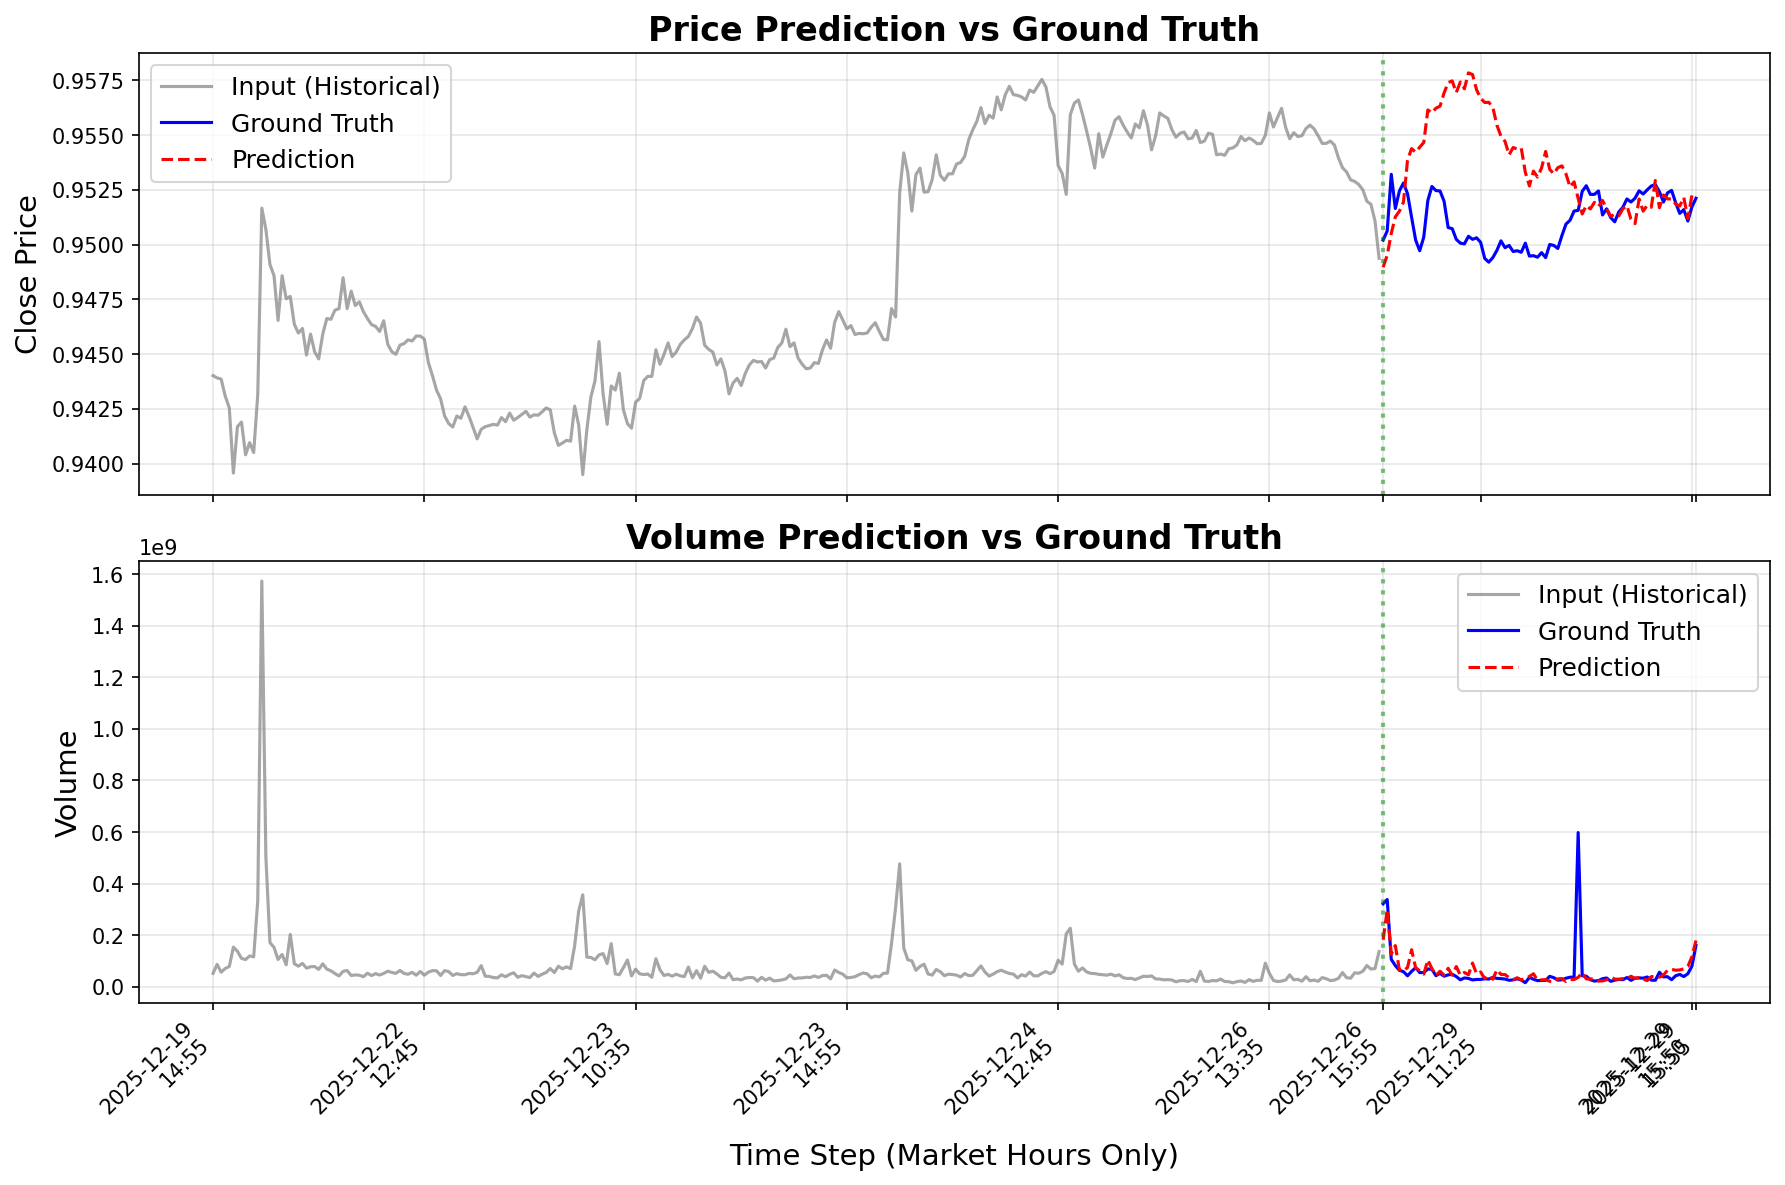
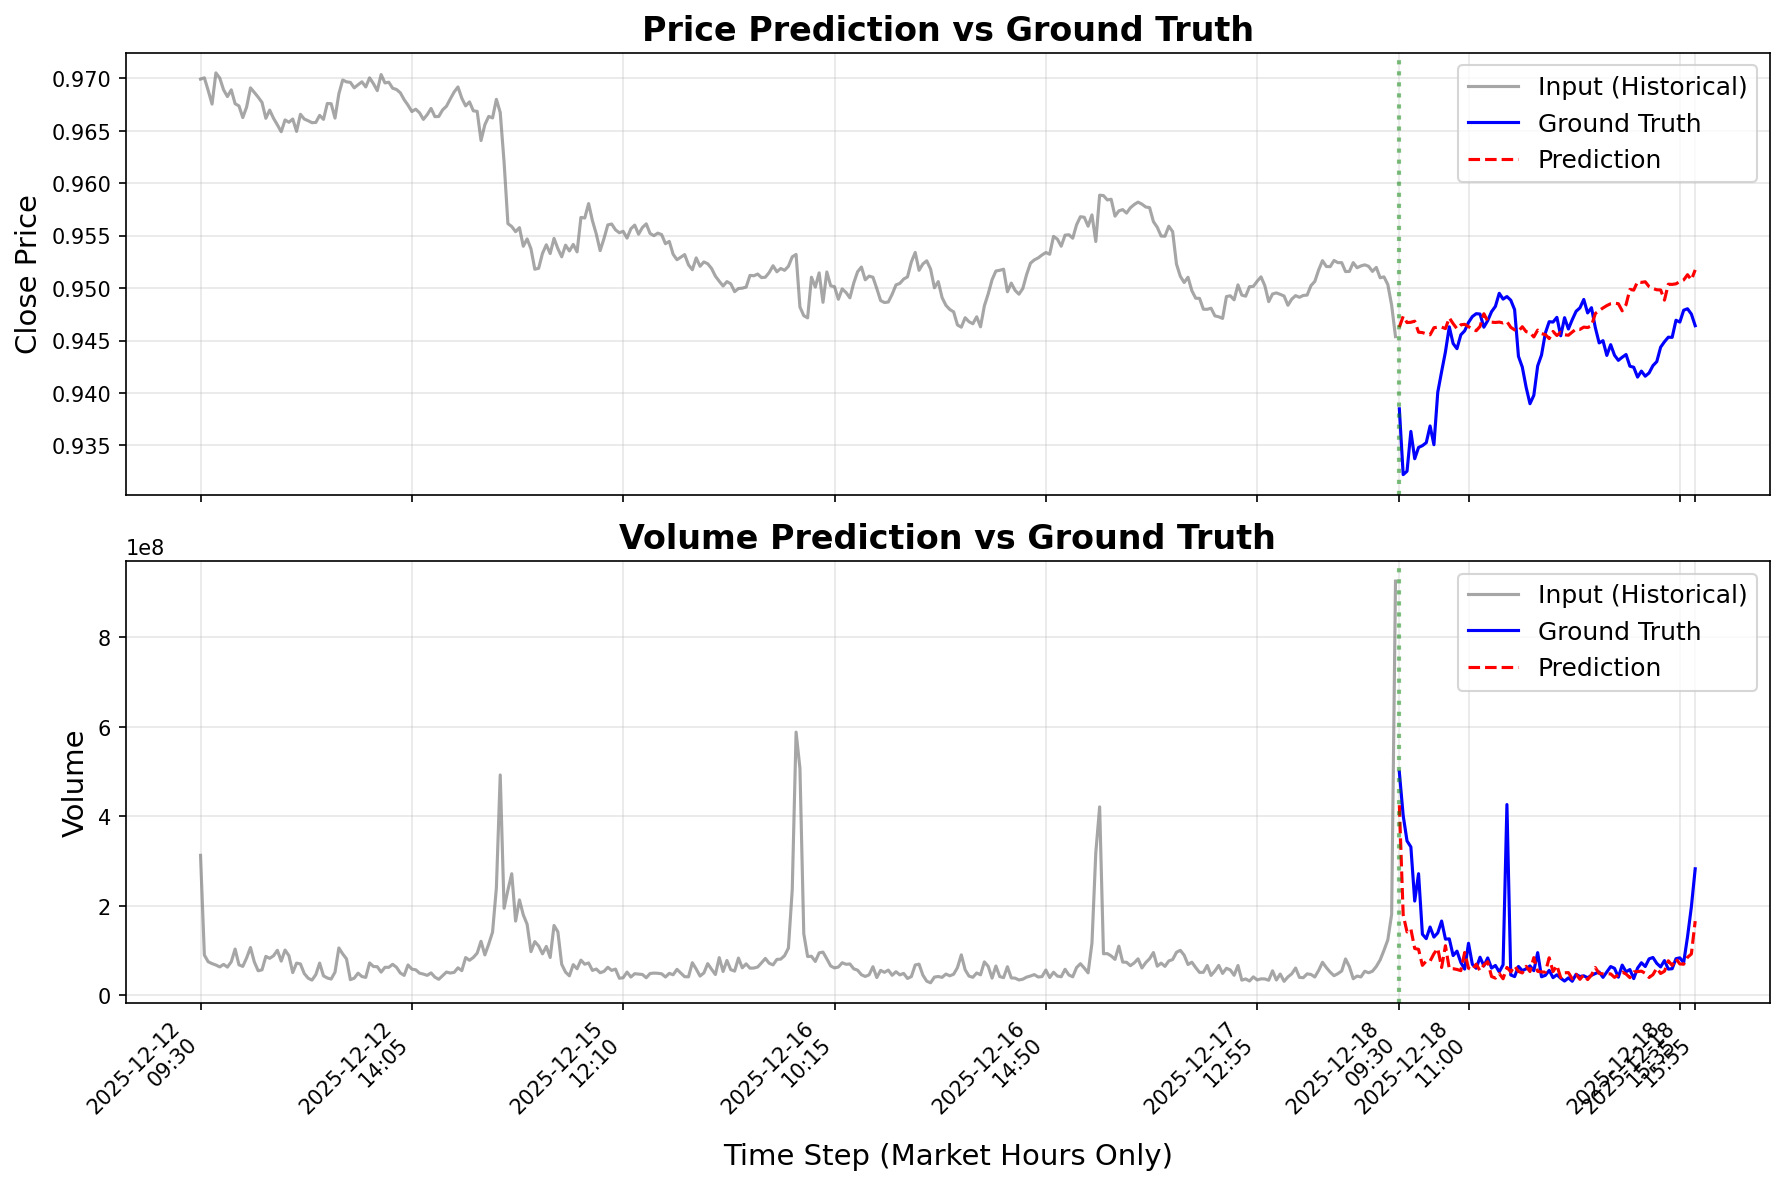
Allow option to specify start date of prediction script

diff --git a/examples/prediction_example.py b/examples/prediction_example.py
@@ -123,14 +123,20 @@ def main():
         formatter_class=argparse.RawDescriptionHelpFormatter,
         epilog="""
 Examples:
-  # Use default data file
+  # Use default data file (works backwards from end)
   python prediction_example.py
   
   # Specify custom CSV file
-  python prediction_example.py --csv data/AAPL_1d.csv
+  python prediction_example.py --csv data/AAPL_5min.csv
   
   # Custom parameters
-  python prediction_example.py --csv data/AAPL_1d.csv --lookback 500 --pred-len 100 --device cpu
+  python prediction_example.py --csv data/AAPL_5min.csv --lookback 288 --pred-len 78 --device cuda:0
+  
+  # Specify start date for lookback window
+  python prediction_example.py --csv data/AAPL_5min.csv --start-date "2025-12-10 09:30:00" --lookback 288 --pred-len 78
+  
+  # Daily data with start date
+  python prediction_example.py --csv data/AAPL_1d.csv --start-date "2025-12-15" --lookback 100 --pred-len 20
         """
     )
     
@@ -185,8 +191,8 @@ Examples:
     parser.add_argument(
         '--output',
         type=str,
-        default="prediction_result.png",
-        help="Output plot file path (default: prediction_result.png)"
+        default=None,
+        help="Output plot file path (default: auto-generated with symbol and start date, e.g., prediction_result_aapl_12_11_start.png)"
     )
     parser.add_argument(
         '--model',
@@ -199,6 +205,12 @@ Examples:
         type=str,
         default="NeoQuasar/Kronos-Tokenizer-base",
         help="Tokenizer name from Hugging Face (default: NeoQuasar/Kronos-Tokenizer-base)"
+    )
+    parser.add_argument(
+        '--start-date',
+        type=str,
+        default=None,
+        help="Start date for lookback window (YYYY-MM-DD or YYYY-MM-DD HH:MM:SS). If not provided, works backwards from end of CSV."
     )
     
     args = parser.parse_args()
@@ -235,36 +247,82 @@ Examples:
         print(f"   Required columns: {required_cols}")
         sys.exit(1)
     
-    # Work backwards from the end: use last x days as input, predict next y days (which exist in CSV)
-    # Timeline: [start_idx ... end_idx-x-y ... end_idx-x ... end_idx]
-    #           [          input (x days)          ] [ground truth (y days)]
-    total_needed = args.lookback + args.pred_len
+    # Sort by timestamps to ensure chronological order
+    df = df.sort_values('timestamps').reset_index(drop=True)
     
-    if len(df) < total_needed:
-        print(f"⚠  Warning: Data has {len(df)} rows, but need at least {total_needed} rows")
-        print(f"   (lookback={args.lookback} + pred_len={args.pred_len})")
-        # Adjust: use what we have
-        if len(df) < args.lookback:
-            print(f"❌ Error: Not enough data even for lookback. Need at least {args.lookback} rows")
-            sys.exit(1)
-        # Use all available data for lookback, and remaining for prediction
-        actual_lookback = len(df) - args.pred_len if len(df) >= args.pred_len else len(df)
-        actual_pred_len = len(df) - actual_lookback
-        print(f"   Adjusted: lookback={actual_lookback}, pred_len={actual_pred_len}")
+    # Determine the start index based on --start-date or work backwards from end
+    if args.start_date is not None:
+        # Find the closest timestamp to the specified start date
+        start_date_ts = pd.to_datetime(args.start_date)
+        print(f"🔍 Looking for start date: {start_date_ts}")
+        
+        # Find the index of the closest timestamp (before or at the specified date)
+        time_diffs = (df['timestamps'] - start_date_ts).abs()
+        closest_idx = time_diffs.idxmin()
+        closest_timestamp = df.loc[closest_idx, 'timestamps']
+        time_diff = (closest_timestamp - start_date_ts).total_seconds() / 3600  # hours
+        
+        print(f"   Found closest timestamp: {closest_timestamp} (diff: {time_diff:.2f} hours)")
+        
+        # Use this as the start of the lookback window
+        input_start_idx = closest_idx
+        
+        # Calculate prediction period indices
+        pred_start_idx = input_start_idx + args.lookback
+        end_idx = pred_start_idx + args.pred_len - 1
+        
+        # Validate we have enough data
+        if end_idx >= len(df):
+            print(f"⚠  Warning: Requested period extends beyond available data")
+            print(f"   Start index: {input_start_idx}, End index needed: {end_idx}, Available: {len(df) - 1}")
+            if pred_start_idx >= len(df):
+                print(f"❌ Error: Not enough data for lookback period. Need at least {args.lookback} rows from start date")
+                sys.exit(1)
+            # Adjust: use what we have
+            end_idx = len(df) - 1
+            actual_pred_len = end_idx - pred_start_idx + 1
+            actual_lookback = args.lookback
+            print(f"   Adjusted: pred_len={actual_pred_len} (requested: {args.pred_len})")
+        else:
+            actual_lookback = args.lookback
+            actual_pred_len = args.pred_len
+        
+        print(f"📅 Timeline (starting from specified date):")
+        print(f"   Input period: rows {input_start_idx} to {pred_start_idx-1} ({actual_lookback} data points)")
+        print(f"   Prediction period: rows {pred_start_idx} to {end_idx} ({actual_pred_len} data points)")
+        print(f"   Input dates: {df.loc[input_start_idx, 'timestamps']} to {df.loc[pred_start_idx-1, 'timestamps']}")
+        print(f"   Ground truth dates: {df.loc[pred_start_idx, 'timestamps']} to {df.loc[end_idx, 'timestamps']}")
     else:
-        actual_lookback = args.lookback
-        actual_pred_len = args.pred_len
-    
-    # Calculate indices: work backwards from the end
-    end_idx = len(df) - 1  # Last row index
-    pred_start_idx = end_idx - actual_pred_len + 1  # Start of prediction period (ground truth)
-    input_start_idx = pred_start_idx - actual_lookback  # Start of input period
-    
-    print(f"📅 Timeline:")
-    print(f"   Input period: rows {input_start_idx} to {pred_start_idx-1} ({actual_lookback} days)")
-    print(f"   Prediction period: rows {pred_start_idx} to {end_idx} ({actual_pred_len} days)")
-    print(f"   Input dates: {df.loc[input_start_idx, 'timestamps'].date()} to {df.loc[pred_start_idx-1, 'timestamps'].date()}")
-    print(f"   Ground truth dates: {df.loc[pred_start_idx, 'timestamps'].date()} to {df.loc[end_idx, 'timestamps'].date()}")
+        # Work backwards from the end: use last x days as input, predict next y days (which exist in CSV)
+        # Timeline: [start_idx ... end_idx-x-y ... end_idx-x ... end_idx]
+        #           [          input (x days)          ] [ground truth (y days)]
+        total_needed = args.lookback + args.pred_len
+        
+        if len(df) < total_needed:
+            print(f"⚠  Warning: Data has {len(df)} rows, but need at least {total_needed} rows")
+            print(f"   (lookback={args.lookback} + pred_len={args.pred_len})")
+            # Adjust: use what we have
+            if len(df) < args.lookback:
+                print(f"❌ Error: Not enough data even for lookback. Need at least {args.lookback} rows")
+                sys.exit(1)
+            # Use all available data for lookback, and remaining for prediction
+            actual_lookback = len(df) - args.pred_len if len(df) >= args.pred_len else len(df)
+            actual_pred_len = len(df) - actual_lookback
+            print(f"   Adjusted: lookback={actual_lookback}, pred_len={actual_pred_len}")
+        else:
+            actual_lookback = args.lookback
+            actual_pred_len = args.pred_len
+        
+        # Calculate indices: work backwards from the end
+        end_idx = len(df) - 1  # Last row index
+        pred_start_idx = end_idx - actual_pred_len + 1  # Start of prediction period (ground truth)
+        input_start_idx = pred_start_idx - actual_lookback  # Start of input period
+        
+        print(f"📅 Timeline (working backwards from end):")
+        print(f"   Input period: rows {input_start_idx} to {pred_start_idx-1} ({actual_lookback} data points)")
+        print(f"   Prediction period: rows {pred_start_idx} to {end_idx} ({actual_pred_len} data points)")
+        print(f"   Input dates: {df.loc[input_start_idx, 'timestamps']} to {df.loc[pred_start_idx-1, 'timestamps']}")
+        print(f"   Ground truth dates: {df.loc[pred_start_idx, 'timestamps']} to {df.loc[end_idx, 'timestamps']}")
     
     # Extract input data (x days before prediction period)
     x_df = df.loc[input_start_idx:pred_start_idx-1, ['open', 'high', 'low', 'close', 'volume', 'amount']].reset_index(drop=True)
@@ -298,8 +356,40 @@ Examples:
     # For plotting, we need to know how many rows are input vs prediction
     input_len = actual_lookback  # First part of kline_df is input
     
-    # Update plot function to use custom output path
-    plot_path = args.output
+    # Generate output filename if not provided
+    if args.output is None:
+        # Extract symbol from CSV filename (e.g., "AAPL_5min.csv" -> "AAPL")
+        csv_stem = csv_path.stem  # Get filename without extension
+        # Try to extract symbol (assumes format like "AAPL_5min" or "AAPL" or "XSHG_5min_600977")
+        symbol = None
+        if '_' in csv_stem:
+            # Try first part as symbol
+            potential_symbol = csv_stem.split('_')[0].upper()
+            # Check if it looks like a stock symbol (letters only, 1-5 chars)
+            if potential_symbol.isalpha() and 1 <= len(potential_symbol) <= 5:
+                symbol = potential_symbol.lower()
+        else:
+            # Whole filename might be the symbol
+            if csv_stem.isalpha() and 1 <= len(csv_stem) <= 5:
+                symbol = csv_stem.lower()
+        
+        # Fallback: use "unknown" if we can't extract symbol
+        if symbol is None:
+            symbol = "unknown"
+        
+        # Get start date from actual data
+        start_timestamp = df.loc[input_start_idx, 'timestamps']
+        # Format as MM_DD (e.g., 12_11 for December 11)
+        date_str = f"{start_timestamp.month:02d}_{start_timestamp.day:02d}"
+        
+        # Generate filename: prediction_result_aapl_12_11_start.png
+        output_dir = csv_path.parent / "data" if csv_path.parent.name != "data" else csv_path.parent
+        output_dir.mkdir(exist_ok=True)
+        plot_path = output_dir / f"prediction_result_{symbol}_{date_str}_start.png"
+    else:
+        plot_path = Path(args.output)
+        plot_path.parent.mkdir(parents=True, exist_ok=True)
+    
     plot_prediction(kline_df, pred_df, input_len, plot_path=plot_path)
     
     print(f"\n✅ Prediction complete! Plot saved to: {plot_path}")
